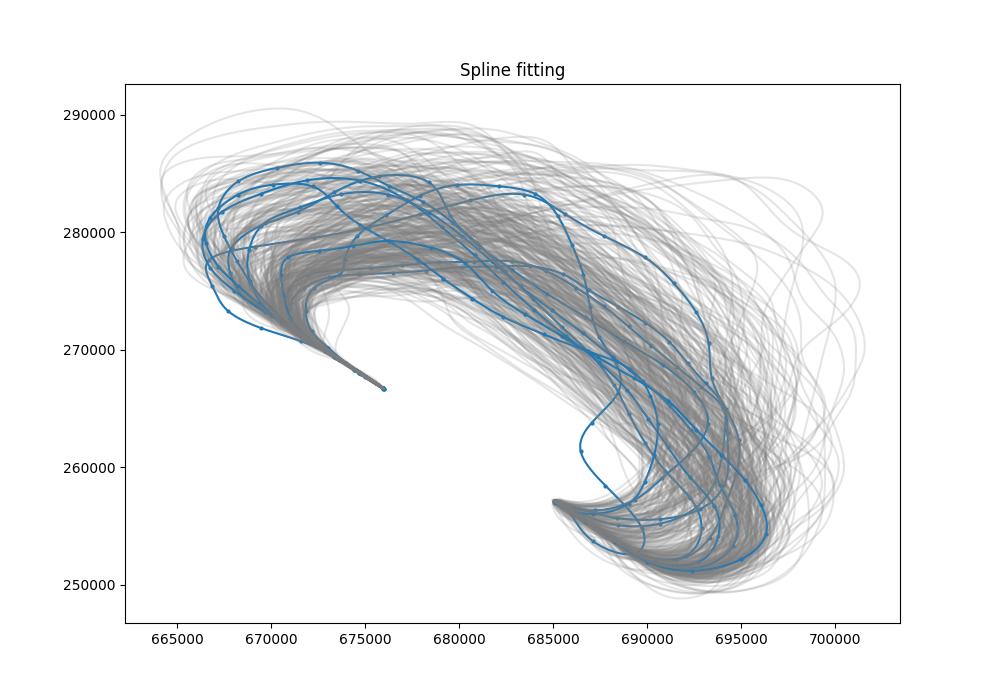
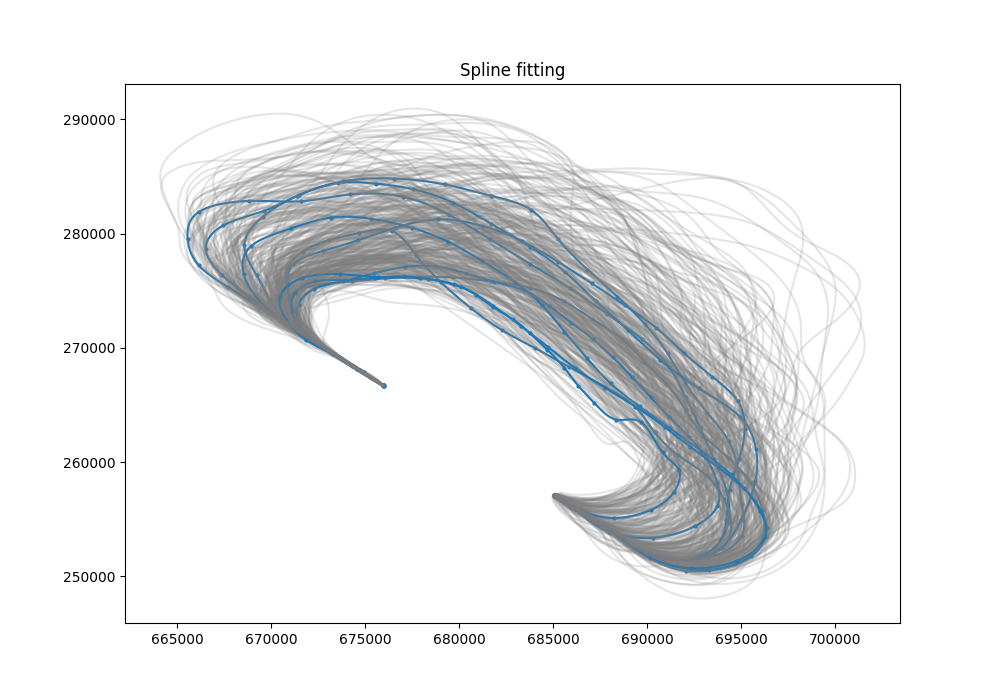
improvement of plots

diff --git a/Modules/plot_generation.py b/Modules/plot_generation.py
@@ -12,6 +12,7 @@ import pandas as pd
 import numpy as np
 import scipy as  sp
 import matplotlib.pyplot as plt
+from matplotlib.collections import LineCollection
 from scipy.interpolate import CubicSpline
 from scipy.spatial.distance import cdist
 
@@ -138,26 +139,49 @@ def plot_raw_trajs(df, name_png, sampled = True, n_display = 400):
     rand = np.random.choice(range(len(df)), n_display, replace=False)
     gen_x, calc_y = reconstruct_trajs(df.loc[rand], sampled = sampled)
 
+    alphas = np.ones(n_display)*0.1
+    idx = np.random.choice(n_display, 5, replace=False)
+    alphas[idx] = 1
+    rgba_colors = np.zeros((n_display,4))
+    rgba_colors[:,0] = 0.7
+    rgba_colors[:,1] = 0.7
+    rgba_colors[:,2] = 0.7
+    rgba_colors[:,3] = alphas
+    rgba_colors[idx,:3] = [0,0,1]
+    xaxis = np.array([np.arange(gen_x.shape[1]),] * gen_x.shape[0])
+    rgba_scatter = np.ravel([rgba_colors]*gen_x.shape[1], order="F").reshape((4, n_display*gen_x.shape[1])).T
+
     plt.figure(figsize=(15, 10))
     plt.subplot(221)
-    plt.plot(gen_x.T)
+    #plt.plot(gen_x.T)
+    segs = np.stack((xaxis, gen_x), axis=2)
+    lc = LineCollection(segs, colors=rgba_colors)
+    plt.gca().add_collection(lc)
+    plt.autoscale()
     plt.title("Generated x")
 
     plt.subplot(222)
-    plt.plot(calc_y.T)
+    #plt.plot(calc_y.T)
+    segs = np.stack((xaxis, calc_y), axis=2)
+    lc = LineCollection(segs, colors=rgba_colors)
+    plt.gca().add_collection(lc)
+    plt.autoscale()
     plt.title("Calculated y")
 
     plt.subplot(223)
     plt.title("Generated trajectory")
-    plt.plot(
-        gen_x.T, calc_y.T,
-    )
+    segs = np.stack((gen_x, calc_y), axis=2)
+    lc = LineCollection(segs, colors=rgba_colors)
+    plt.gca().add_collection(lc)
+    plt.autoscale()
+    #plt.plot(
+    #    gen_x.T, calc_y.T,
+    #)
 
     plt.subplot(224)
     plt.title("Generated points")
     plt.scatter(
-        gen_x.T, calc_y.T,
-    )
+        gen_x, calc_y, color =  rgba_scatter)
     plt.scatter(perpendiculars.x.values, perpendiculars.y.values, color="r")
 
     plot_name = 'Plots/Raw_trajectories_' + name_png + '.png'
